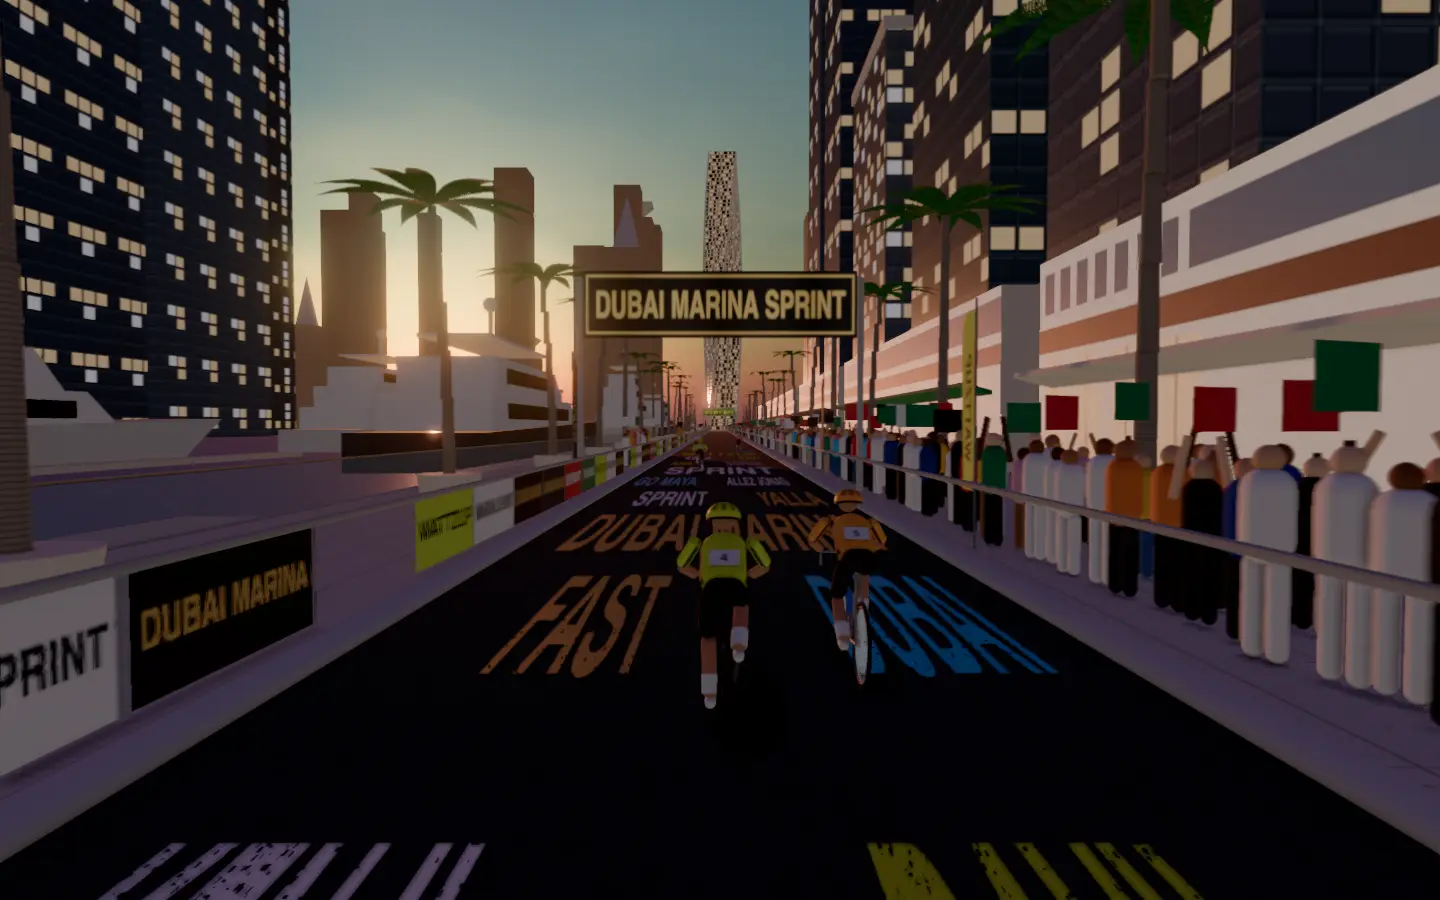
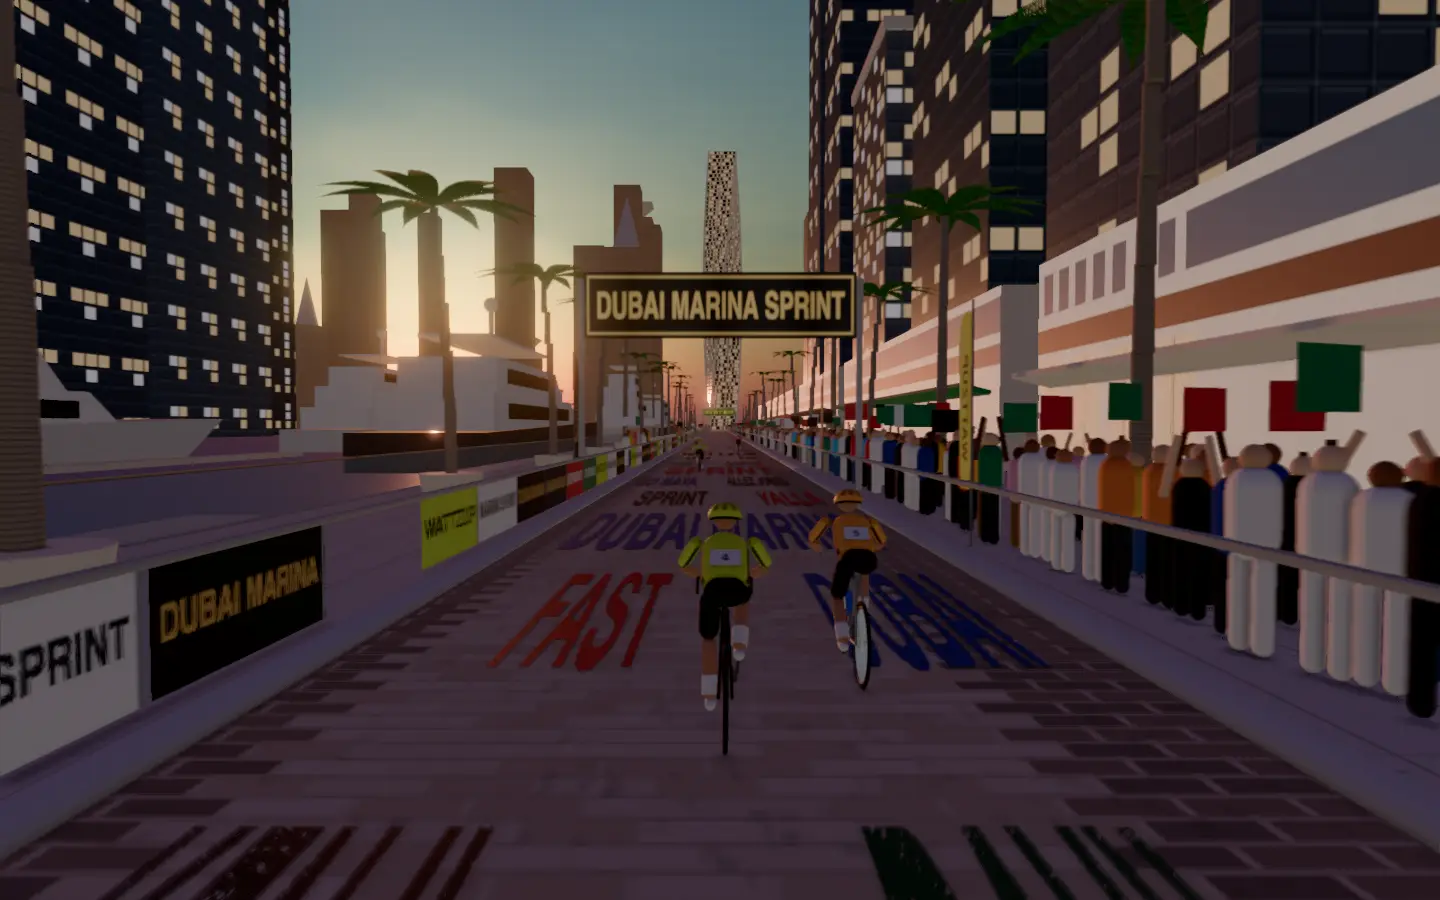
Pave Dubai Marina's walk in sandstone, the cries painted dark on it

diff --git a/frontend/projects/wattzup/src/app/core/world-dubai.ts b/frontend/projects/wattzup/src/app/core/world-dubai.ts
@@ -115,22 +115,22 @@ const FEATHERS: readonly FeatherWord[] = [
 const FEATHER_EVERY = 18;
 /** The names and cries painted on the marina walk. */
 const ROAD_PAINT: readonly (readonly [string, string])[] = [
-  ['SPRINT', '#ffffff'],
-  ['YALLA', '#e8c060'],
-  ['GO MAYA', '#3ac8e8'],
-  ['ALLEZ JONAS', '#ffffff'],
-  ['ANA!', '#f2c230'],
-  ['SOPHIE', '#e8a0c0'],
-  ['KENJI', '#ffffff'],
-  ['RAVI!', '#d7ff3a'],
-  ['FAST', '#e8c060'],
-  ['DUBAI', '#3ac8e8'],
+  ['SPRINT', '#1b1e24'],
+  ['YALLA', '#c81e32'],
+  ['GO MAYA', '#1d3c8f'],
+  ['ALLEZ JONAS', '#1b1e24'],
+  ['ANA!', '#0e7a6a'],
+  ['SOPHIE', '#8a1e5a'],
+  ['KENJI', '#1b1e24'],
+  ['RAVI!', '#1f6a3a'],
+  ['FAST', '#c81e32'],
+  ['DUBAI', '#1d3c8f'],
 ];
 const ROAD_SLOGANS: readonly (readonly [string, string])[] = [
-  ['DUBAI MARINA', '#e8c060'],
-  ['SPRINT', '#ffffff'],
-  ['WATTZUP', '#d7ff3a'],
-  ['YALLA YALLA', '#3ac8e8'],
+  ['DUBAI MARINA', '#1d3c8f'],
+  ['SPRINT', '#c81e32'],
+  ['WATTZUP', '#1b1e24'],
+  ['YALLA YALLA', '#0e7a6a'],
 ];
 const ROAD_PAINT_EVERY = 7;
 /** The yachts' hull colours; most are white. */
@@ -254,6 +254,24 @@ export class DubaiStreet implements SceneStreet {
     const kerb = this.material({ color: 0xd8d4cc, roughness: 0.85 });
     const paving = this.material({ map: this.repeat(pavingTexture(), 2, 2), roughness: 0.6 });
     const edge = this.material({ color: 0xc8c2b8, roughness: 0.8 });
+    // The walk itself: sandstone pavers laid over the road, kerb to kerb.
+    const pavers = this.track(paverTexture());
+    pavers.wrapS = RepeatWrapping;
+    pavers.wrapT = RepeatWrapping;
+    pavers.repeat.set(1 / (2 * r), 1 / 4);
+    this.ribbons.add(
+      points,
+      this.material({
+        map: pavers,
+        roughness: 0.7,
+        polygonOffset: true,
+        polygonOffsetFactor: -2,
+      }),
+      [
+        [r, 0.006],
+        [-r, 0.006],
+      ],
+    );
     for (const side of [1, -1] as const) {
       const at = (x: number, h: number): [number, number] => [side * x, h];
       const order = <T>(list: T[]) => (side > 0 ? list : list.reverse());
@@ -498,7 +516,7 @@ export class DubaiStreet implements SceneStreet {
     }
   }
 
-  /** Names and cries painted on the walk in gold, aqua, lime and white, slogans right across. */
+  /** Names and cries painted on the pavers in navy, red, teal and black, slogans right across. */
   private addRoadPaint(): void {
     const rows = paintedRows(
       {
@@ -703,6 +721,45 @@ function shopTexture(k: number): CanvasTexture {
     // The upper floor's windows.
     g.fillStyle = '#4a5a6a';
     for (let x = 12; x < 256; x += 32) g.fillRect(x, 8, 20, 24);
+  });
+}
+
+/**
+ * The marina walk's sandstone pavers, the road's width across and four metres along: rows of
+ * long pavers in running bond in two warm tones, a band of darker ones down each side, and the
+ * joints between them.
+ */
+function paverTexture(): CanvasTexture {
+  return canvasTexture(256, 128, (g) => {
+    speckle(g, 256, 128, '#dccbaa', 5285);
+    const random = seeded(5287);
+    const rows = 16;
+    const h = 128 / rows;
+    for (let row = 0; row < rows; row++) {
+      const w = 24;
+      for (let x = row % 2 ? -w / 2 : 0; x < 256; x += w) {
+        const edge = x < 40 || x > 216;
+        const tone = random();
+        g.fillStyle = edge
+          ? tone < 0.5
+            ? 'rgba(120,96,74,0.55)'
+            : 'rgba(104,84,66,0.6)'
+          : tone < 0.4
+            ? 'rgba(200,176,136,0.5)'
+            : tone < 0.7
+              ? 'rgba(232,214,182,0.4)'
+              : 'rgba(0,0,0,0)';
+        g.fillRect(x + 1, row * h + 1, w - 2, h - 2);
+      }
+    }
+    g.strokeStyle = 'rgba(110,90,70,0.35)';
+    g.lineWidth = 1;
+    for (let row = 0; row <= rows; row++) {
+      g.beginPath();
+      g.moveTo(0, row * h);
+      g.lineTo(256, row * h);
+      g.stroke();
+    }
   });
 }
 

diff --git a/docs/detailed-designs/world-ride/draw-class-scene/README.md b/docs/detailed-designs/world-ride/draw-class-scene/README.md
@@ -511,7 +511,7 @@ None.
   - the summit massif and crater rim's cinder cones, and the observatories' white domes;
   - the sea of clouds to the horizon with billows drifting on the ride's clock, and the Big Island's Mauna Kea, snow on its summit, and Mauna Loa above it, keeping their bearing.
 - **Dubai Marina (`core/world-dubai.ts`).** For `dubai`, the marina walk at dusk, closed for the ride:
-  - the dark asphalt of the walk painted with names and cries in gold, aqua, lime and white every 7 m (SPRINT, YALLA, GO MAYA and more), every third row a slogan right across it (DUBAI MARINA, SPRINT, WATTZUP, YALLA YALLA), laid by the kit's painted rows; barriers hung with the race's banners (DUBAI MARINA, MARINA SPRINT, WATTZUP, DUBAI, SPRINT, MARINA WALK) under a white rail, the kit's feather flags every 18 m along both, and two lit banners over the road (DUBAI MARINA SPRINT, WATTZUP · SPRINT INTO THE EFFORT);
+  - the walk paved kerb to kerb in sandstone: long pavers in running bond in two warm tones with a band of darker ones down each side, laid over the road, painted with names and cries in navy, red, teal and black every 7 m (SPRINT, YALLA, GO MAYA and more), every third row a slogan right across it (DUBAI MARINA, SPRINT, WATTZUP, YALLA YALLA), laid by the kit's painted rows; barriers hung with the race's banners (DUBAI MARINA, MARINA SPRINT, WATTZUP, DUBAI, SPRINT, MARINA WALK) under a white rail, the kit's feather flags every 18 m along both, and two lit banners over the road (DUBAI MARINA SPRINT, WATTZUP · SPRINT INTO THE EFFORT);
   - the evening crowd (the shared crowd) in white kandura and black abaya, worn shoulder to hem in one colour by nearly half of them (the wardrobe's robes), among bright summer colours, packed along the podium side and in small knots along the quay with the marina open between them, some with flags in the UAE's green, white, black and red, some with their arms up;
   - on the left the pale stone paving of the walk out to the quay's edge 10 m off the crown, its glass rail with a steel cap, the kit's palms in round stone planters, the marina's dark water a pontoon's step (0.75 m) below the walk with the dusk glinting orange and gold in it, superyachts (the kit's yachts, shared with Monaco) afloat on it in two rows off the quay beside their pontoons, open berths between those of the first row, and across the water the far side's towers, their glass alight;
   - on the right the podium: two floors of shops and cafés with lit fronts under awnings, and a glass tower rising from each block, set back, 60 to 210 m tall, its windows coming alight, a spire on every third;

diff --git a/docs/class-worlds.md b/docs/class-worlds.md
@@ -55,7 +55,7 @@ Every class in `frontend/public/classes.json`, with its World Ride scene. Render
 | 49 | 20 Minutes to Work on Your Cadence | Strade Bianche | 80% | White gravel roads wind between lines of dark cypresses across the golden Crete Senesi toward Siena, the Torre del Mangia and the Duomo's striped campanile on the ridge ahead, as tifosi line the dusty banks under the sector banners and stone farmhouses watch from the olive groves. The minute's warm-up rolls out over the first white sector, the efforts from half a minute to a minute spin up the cadence on the gravel rises between the cypresses, and the easy minutes coast the dust down past the farmhouses toward the hill town. |
 | 50 | 30 Sec On, 2 Min Off | Havana Malecón | 75% | Waves crash over the seawall; classic cars and pastel façades between surges. |
 | 51 | Short 20 Minute Sprint Blitz | Holi in Jaipur (concept) |  | Colour-powder clouds in the Pink City's streets; sprint through every burst of festival colour. |
-| 52 | Sprint Into the Effort | Dubai Marina | 76% | The marina walk runs along the water at dusk between the glass towers of Dubai Marina, superyachts moored at the pontoons and palms in their planters, as a crowd in white kandura and bright summer colours lines the barriers and the twisting Cayan Tower glows against the orange and violet sky ahead. The two minutes' warm-up rolls out under the first sprint banner, the half-minute sprints flash past the yachts at full gas, and the three-minute efforts hold the pace past the lit cafés of the podium before the easy minutes spin beneath the towers. |
+| 52 | Sprint Into the Effort | Dubai Marina | 78% | The marina walk runs along the water at dusk between the glass towers of Dubai Marina, superyachts moored at the pontoons and palms in their planters, as a crowd in white kandura and bright summer colours lines the barriers and the twisting Cayan Tower glows against the orange and violet sky ahead. The two minutes' warm-up rolls out under the first sprint banner, the half-minute sprints flash past the yachts at full gas, and the three-minute efforts hold the pace past the lit cafés of the podium before the easy minutes spin beneath the towers. |
 | 53 | 20/40 Interval Session | Sea Point, Cape Town | 74% | Promenade beneath Lion's Head and Table Mountain, Atlantic waves rolling in. |
 | 54 | Time to Spin Out | Overseas Highway (concept) |  | Turquoise water on both sides along the Florida Keys' Seven Mile Bridge. |
 | 55 | Spin to Win Cadence Session | Lee Valley Velodrome (concept) |  | Steep timber boards of London's Olympic track under bright arena lights. |
